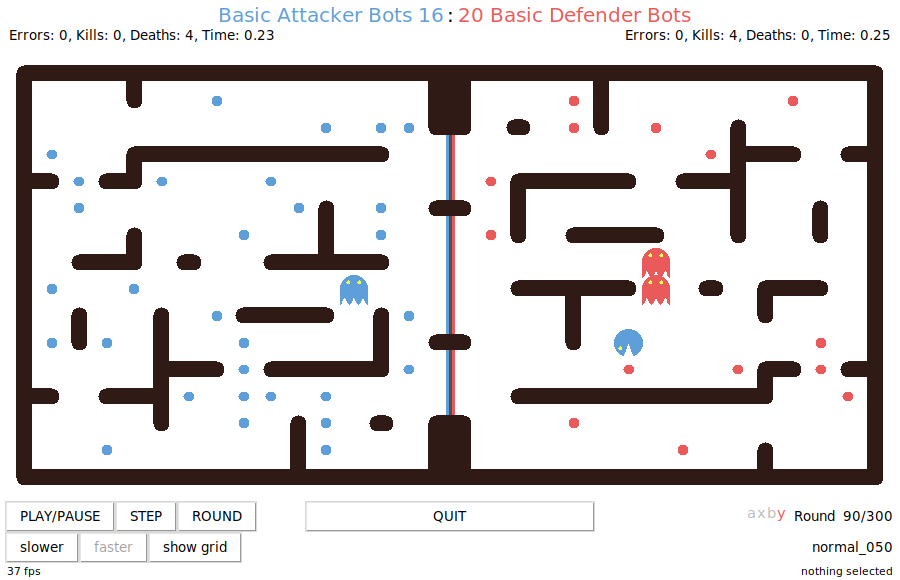
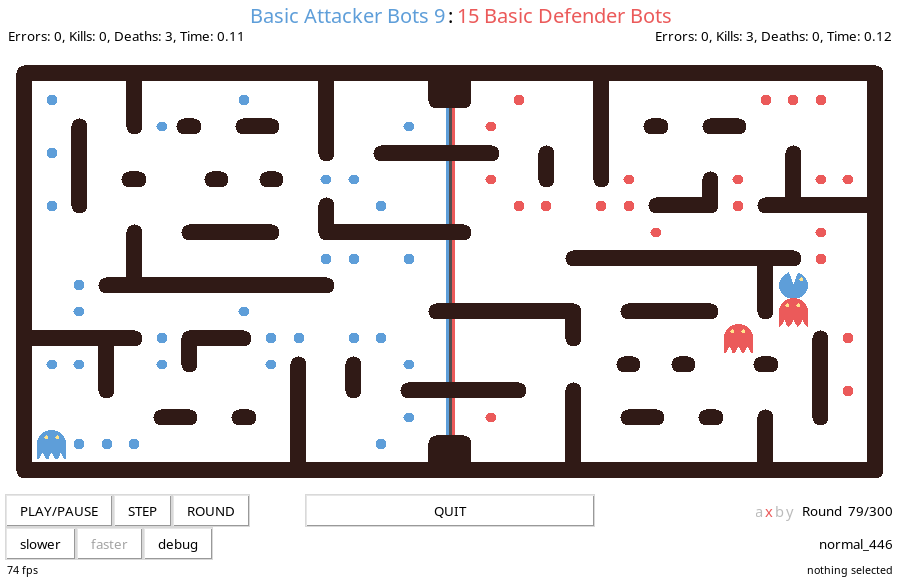
updated screenshots

diff --git a/README.md b/README.md
@@ -394,5 +394,5 @@ When you push the `debug` button in the GUI you'll see a lot more info. You can 
 - the "shadow" of the current bot, i.e. the squares defining the "food" shadow of the current bot: the food pellets in the shadow will turn grey 3 rounds before they getting relocated 
 - if the enemy positions are noisy, you will see the silhouette of the enemy at `bot.enemy[X].position` in addition to the real position, which you have no access to from your code
 
-![](pelita_GUI_noise.png)
+![](pelita_GUI_debug.png)
 
